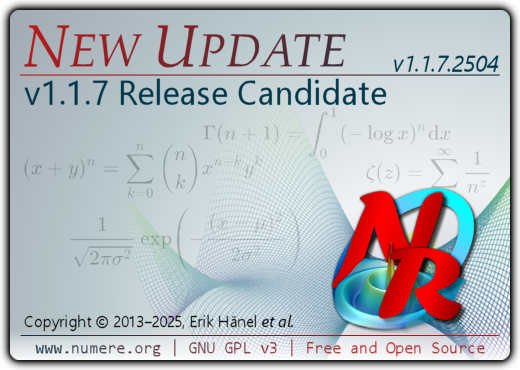
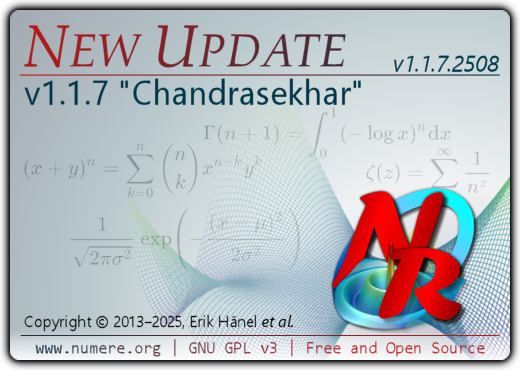
New splash images for the current release

Changed region(s): [[0.2154, 0.2081, 0.7385, 0.2973], [0.9231, 0.1486, 0.9846, 0.2081]]

diff --git a/files/change_summary.md b/files/change_summary.md
@@ -2,27 +2,34 @@
 
 ## UI changes
 
-- An optional feature to extract the argument types of functions, methods and procedures based upon their names, was added.
-- Usability of mouse-over tooltips was improved. It should now be possible to show the fulltips of arguments inside of function parentheses again.
-- The auto-indentation functionality does not interfere with CTRL-Z any more.
+- The default UI style has been changed to a more bluish theme. Click on "RESET" for the "UI THEME" within the "Style" tab in the settings dialog to load the new default theme (only if you want to change, of course).
+- The default icon for files used within the file tree has been changed to appear more neutral
 
 ## New and improved functionalities
 
-- The new plotting option `stacked` enables the stacking of `bars` and `hbars` on each other.
-- Bar charts now always include the value y=0. In some situations it is reasonable to enable `origin=sliding` as an additional plotting option.
-- One can now pass custom axis ticks using a list of strings instead of the newline-separated strings.
+- The function `zip()` combines multiple arrays elementwise into embedded clusters in the returned cluster
+- The function `getuserinfo()` will return a key-value list containing user information
+- The command `mail` can be used to send e-mails via a SMTP server
+- The `date()` function will now also accept strings as its "formatting type" parameter
+- `getfileparts()` will now return the host as drive for UNC paths, i.e. `"\\MY.SERVER.TDL"`
+- String functions, which convert one input into an array, do now return arrays of clusters (one for each input element). Notable candidates: `textparse()`, `to_value()`, `split()` and all character classifier functions like `is_alnum()`
+- Functions for base-n encoding `encode_base_n()` and decoding `decode_base_n()` have been added
 
 ## Experimental features
 
-- It is now possible to create new columns in tables if values are assigned to an unknown column using string indexing with the column headlines, i.e. `TABLE(:, "MY-COL-HEADLINE")`. The new column will be appended at the end of the table.
-- `matop` functions now also accept matrix results as their scalar inputs. For consecutive scalar inputs, even a single vector can be passed, e.g. `matop zero({1,3})`
-- We added support for coloured window themes. If you want to test it, the setting can be found at the end of the syntax colour list. Recommended colour sets are the blue set (foreground: `rgb(159,213,244)` and background: `rgb(234,245,253)`), the light grey set (foreground: `rgb(82,82,82)`, background: `rgb(181,183,185)`) and the splash-image set (foreground: `rgb(214,177,182)`, background: `rgb(222,237,234)`)
+- Structures were added: `dictstruct` (a structure/dictionary mixture), `file` (for arbitrary file accesses), `path` (for all type of paths), `queue` (FIFO storage) and `stack` (LIFO storage)
+- `readxml()` can import XML files and `readjson()` can import JSON files (both are imported as `dictstruct` instances)
+- The command `obj` can be used to declare procedure-local objects and structures (including categories)
+- The index operator `VAR[IDX]` can now be used on usual vectors. It also accepts the dimension variable `nlen`
 
 ## General changes
 
-- Increased performance of `stfa`, `audioread` and some statistics functions.
-- `write` now uses `noquotes` as default. The parameter was removed and has no effect any more.
-- If the values `nan` and `inf` are used within an index vector, then they are treated as invalid values and will always return an invalid value.
+- A duration type is now available to increase the date-time logic
+- The performance of the new parser implementation was greatly improved and is now at about 70-80% of the previous approach for scalar operations
+- Vectorial variables are now supported in `matop`, but not fully compatible to inline created vectors using the brace syntax `{x,y,z,...}`, because they will not be auto-expanded to matrices if necessary. To resolve this, either wrap the vectorial variable into additional braces or enclose it into an explicit `repmat()` call. This is a known issue and will be resolved in a future version together with the complete rework of `matop`.
+- Variable method resolution is much more precise now
+- It is now possible to use SQL placeholders in SQL statements and supply the parameters via `params=[PARAMLIST]`
+- HTML exports of tables will now also parse a simplified markdown syntax, so that headlines, code segments, bold and italic text are possible
 - Many improvements and fixes
 
 The complete list of changes can be found in the ChangesLog.
